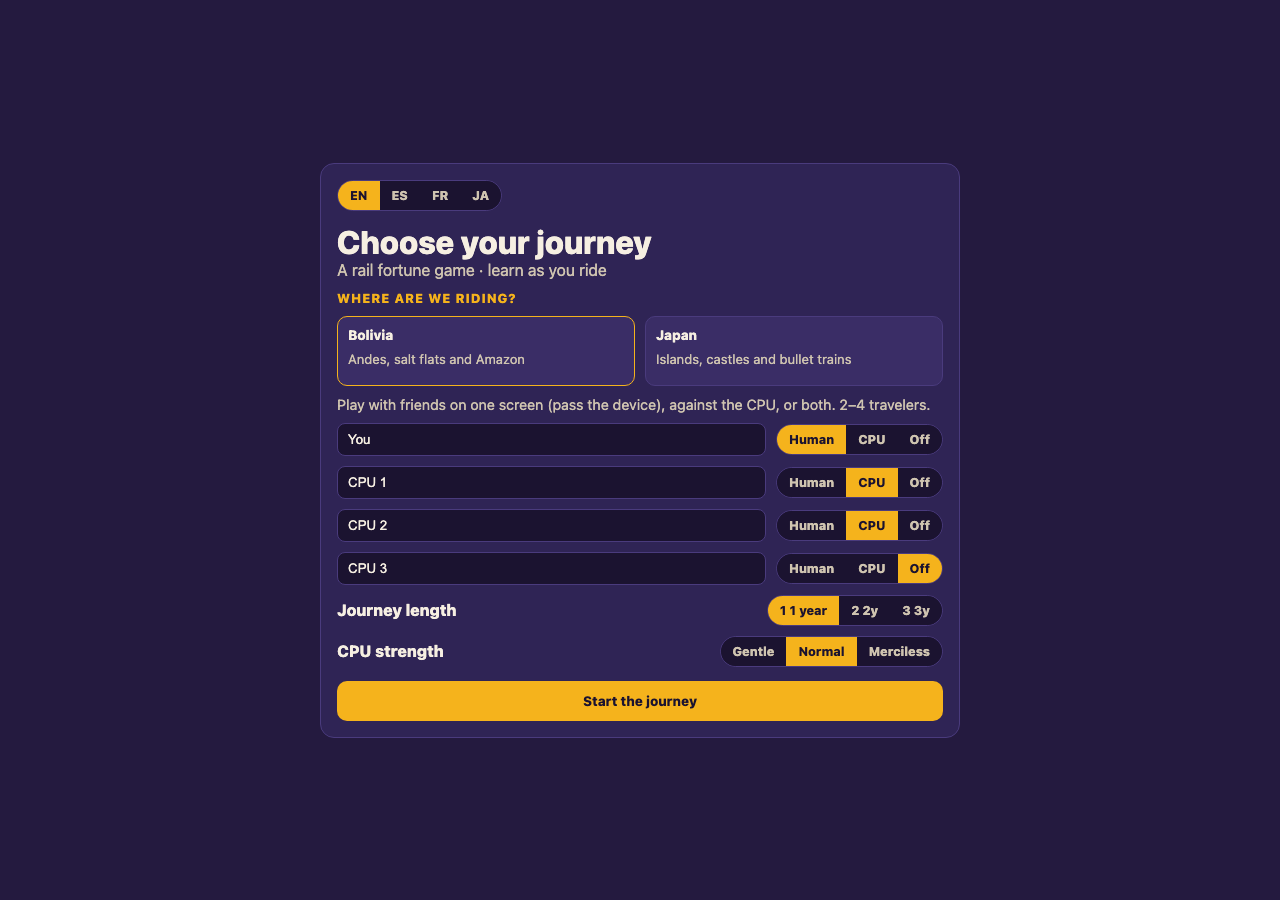
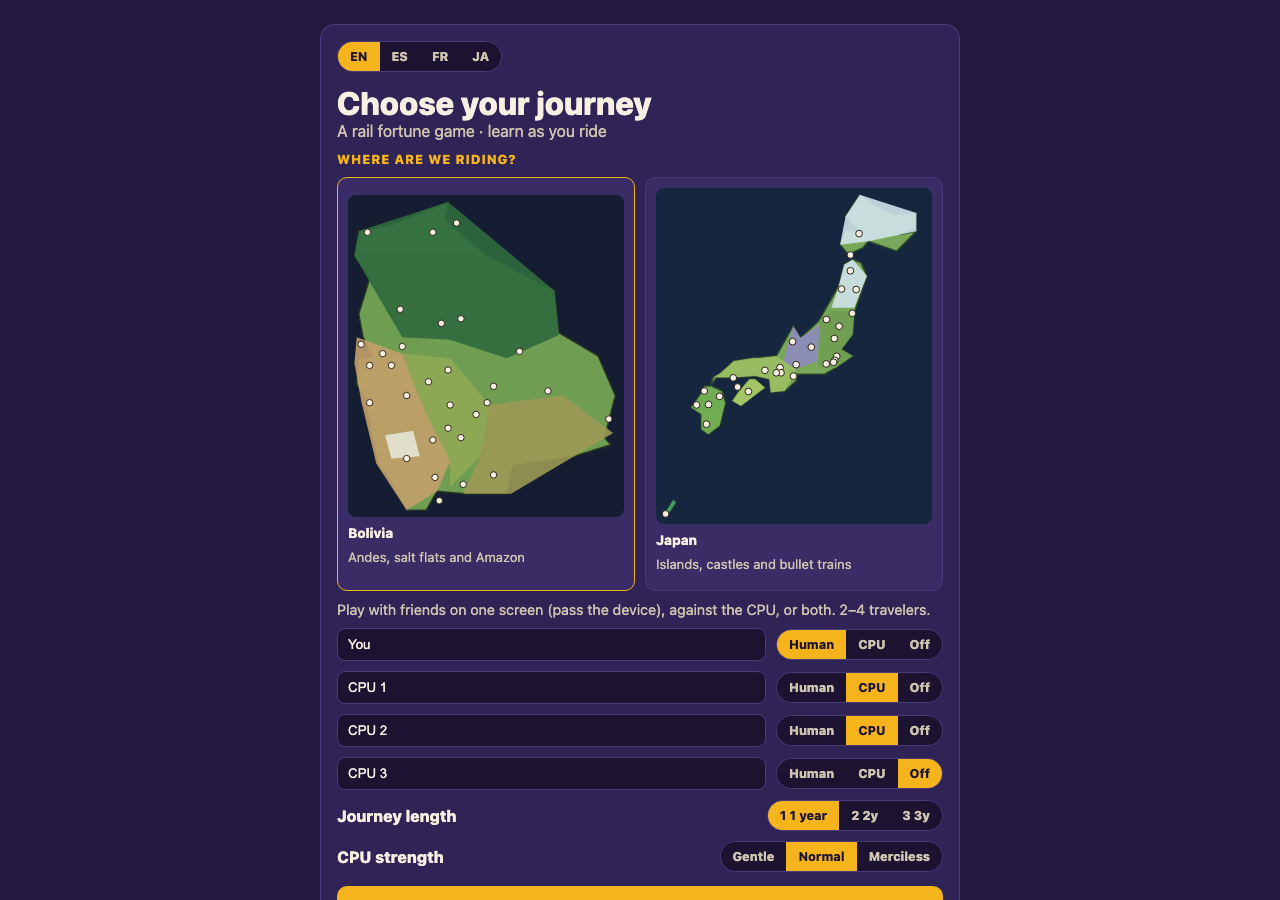
feat(presentation): 盤面の地形と国選択カードの地図を移植
前コミットの都市イラストと同じ手法で、残っていた視覚要素を移植した。

盤面の地形(legacyの drawBoard() 前半):
- terrain-layer.tsx を追加。海+波模様・陸の落ち影・陸・地形・装飾・湖・河川・
  地名ラベルを、legacyと同じ重ね順・色・線幅・オフセットで描く
- スキーマ/ドメイン型(CountryTerrain)/マッパーに sea・seaWave・landBase・coast・
  land・terrain・lakes・rivers・labels・decor を追加
- 装飾(decor)はlegacyでは (el, g, PX, PY) => {...} というDOM生成関数だったが、
  中身は投影と固定の算術だけで決定的なので、「SVG文字列を組み立てるだけの el」を
  渡して評価し静的なSVG断片として抽出した(evaluateDecor)。bg と同様に
  2回呼んで同じ結果になることも検証している

国選択カードの地図(legacyの countryThumb()):
- 抽出時に同じ描画を生成し、軽量インデックスにSVG文字列として保存。
  セットアップ画面は地形データ本体を読み込まずに地図を表示できる
  (country-index.json は約1KB→約9KB)

実際の描画結果はスクリーンショットで目視確認し、docs/90-migration/assets/ の
new-board.png / new-setup.png を更新した(legacyとほぼ同一)。

未実装: 路線(レール)の3層描画と、盤面上の都市ノードのシンボル表示。

typecheck/lint/depcruise/vitest(201件)/playwright(12件)/next build すべて確認済み。

Changed region(s): [[0.25, 0.0311, 0.75, 1.0]]

diff --git a/src/presentation/components/board/terrain-layer.tsx b/src/presentation/components/board/terrain-layer.tsx
@@ -1,0 +1,131 @@
+"use client";
+
+import { useId } from "react";
+import { CountryProjection } from "../../../domain/board/board-projection";
+import { CountryTerrain, GeoPoint } from "../../../domain/country/country-content-pack";
+import { useLocale } from "../../i18n/locale-context";
+
+/**
+ * 盤面の背景となる地形レイヤー(legacyの `drawBoard()` 前半の移植)。
+ * 海 → 波模様 → 陸の影 → 陸 → (陸でクリップした)地形・装飾・湖・河川・地名
+ * という重ね順・色・線幅・オフセットはlegacyと同じ値を使っている。
+ *
+ * 装飾(`decorSvg`)は抽出時にlegacyの `decor()` を評価して得た静的なSVG断片
+ * (`scripts/extract-legacy-content.mjs` 参照)。コンテンツJSON由来でユーザー入力を
+ * 含まないため `dangerouslySetInnerHTML` で挿入している。
+ */
+export function TerrainLayer({
+  terrain,
+  projection,
+}: {
+  terrain: CountryTerrain;
+  projection: CountryProjection;
+}) {
+  const { tx } = useLocale();
+  // 同じページに複数の盤面が現れても衝突しないようIDを一意化する。
+  const rawId = useId();
+  const seaPatternId = `sea-${rawId}`;
+  const landClipId = `landclip-${rawId}`;
+
+  const { boardWidth: bw, boardHeight: bh } = projection;
+  const px = (lon: number) => ((lon - projection.lon0) / (projection.lon1 - projection.lon0)) * bw;
+  const py = (lat: number) => ((lat - projection.lat0) / (projection.lat1 - projection.lat0)) * bh;
+  const toPoints = (polygon: readonly GeoPoint[]) => polygon.map(([lo, la]) => `${px(lo)},${py(la)}`).join(" ");
+
+  return (
+    <>
+      <defs>
+        <pattern id={seaPatternId} width={26} height={26} patternUnits="userSpaceOnUse">
+          <rect width={26} height={26} fill={terrain.seaColor} />
+          <path d="M0,13 q6.5,-5 13,0 t13,0" stroke={terrain.seaWaveColor} strokeWidth={2} fill="none" />
+        </pattern>
+        <clipPath id={landClipId}>
+          {terrain.landPolygons.map((polygon, i) => (
+            <polygon key={i} points={toPoints(polygon)} />
+          ))}
+        </clipPath>
+      </defs>
+
+      <rect x={0} y={0} width={bw} height={bh} fill={terrain.seaColor} />
+      <rect x={0} y={0} width={bw} height={bh} fill={`url(#${seaPatternId})`} />
+
+      {/* 陸の落ち影 */}
+      {terrain.landPolygons.map((polygon, i) => (
+        <polygon key={`shadow-${i}`} points={toPoints(polygon)} fill="#0d1424" opacity={0.5} transform="translate(9,13)" />
+      ))}
+      {terrain.landPolygons.map((polygon, i) => (
+        <polygon
+          key={`land-${i}`}
+          points={toPoints(polygon)}
+          fill={terrain.landColor}
+          stroke={terrain.coastColor}
+          strokeWidth={3}
+          strokeLinejoin="round"
+        />
+      ))}
+
+      <g clipPath={`url(#${landClipId})`}>
+        {terrain.terrainPolygons.map(([color, polygon], i) => (
+          <polygon key={`ter-${i}`} points={toPoints(polygon)} fill={color} />
+        ))}
+        {terrain.decorSvg && <g dangerouslySetInnerHTML={{ __html: terrain.decorSvg }} />}
+        {terrain.lakes.map(([lo, la, rx, ry, rotation, color], i) => (
+          <ellipse
+            key={`lake-${i}`}
+            cx={px(lo)}
+            cy={py(la)}
+            rx={rx}
+            ry={ry}
+            fill={color}
+            transform={`rotate(${rotation} ${px(lo)} ${py(la)})`}
+          />
+        ))}
+        {terrain.rivers.map((river, i) => (
+          <polyline
+            key={`river-${i}`}
+            points={toPoints(river)}
+            fill="none"
+            stroke="#4f9fd0"
+            strokeWidth={5}
+            strokeLinecap="round"
+            strokeLinejoin="round"
+            opacity={0.9}
+          />
+        ))}
+        {/* 陸地の地名(水域のラベルはクリップの外に描く) */}
+        {terrain.labels
+          .filter(([, , , isWater]) => !isWater)
+          .map(([lo, la, text], i) => (
+            <text
+              key={`label-${i}`}
+              x={px(lo)}
+              y={py(la)}
+              textAnchor="middle"
+              fill="#f0ead6"
+              opacity={0.6}
+              fontSize={19}
+              letterSpacing={2}
+            >
+              {tx(text)}
+            </text>
+          ))}
+      </g>
+
+      {terrain.labels
+        .filter(([, , , isWater]) => isWater)
+        .map(([lo, la, text], i) => (
+          <text
+            key={`water-label-${i}`}
+            x={px(lo)}
+            y={py(la)}
+            textAnchor="middle"
+            fill="#e8f4ff"
+            opacity={0.95}
+            fontSize={15}
+          >
+            {tx(text)}
+          </text>
+        ))}
+    </>
+  );
+}

diff --git a/src/domain/country/country-content-pack.ts b/src/domain/country/country-content-pack.ts
@@ -13,6 +13,40 @@ export interface CurrencyFormat {
   readonly multiplier: number;
 }
 
+/** 経度・緯度の座標。 */
+export type GeoPoint = readonly [longitude: number, latitude: number];
+
+/**
+ * 盤面に描く地形(現行コードの `drawBoard` が使う `sea`/`land`/`terrain`/`lakes`/
+ * `rivers`/`labels`/`decor`)。座標はすべて経度・緯度で、描画時に
+ * `CountryProjection` で盤面座標へ投影する。
+ */
+export interface CountryTerrain {
+  readonly seaColor: string;
+  readonly seaWaveColor: string;
+  readonly landColor: string;
+  readonly coastColor: string;
+  readonly landPolygons: readonly (readonly GeoPoint[])[];
+  readonly terrainPolygons: readonly (readonly [color: string, polygon: readonly GeoPoint[]])[];
+  readonly lakes: readonly (readonly [
+    longitude: number,
+    latitude: number,
+    radiusX: number,
+    radiusY: number,
+    rotation: number,
+    color: string,
+  ])[];
+  readonly rivers: readonly (readonly GeoPoint[])[];
+  readonly labels: readonly (readonly [
+    longitude: number,
+    latitude: number,
+    text: LocalizedText,
+    isWater: boolean,
+  ])[];
+  /** 山・木などの装飾(抽出時に評価済みのSVG断片)。 */
+  readonly decorSvg: string;
+}
+
 /** 「厄災の神」のフレーバー(名前・絵文字・各種メッセージテンプレート)。 */
 export interface SpiritFlavor {
   readonly emoji: string;
@@ -55,6 +89,8 @@ export interface CountryContentPack {
   readonly artScenes: Readonly<Record<string, string>>;
   /** 都市イラストのシンボル(SVG断片)。キーは `City.artGlyphKey`。 */
   readonly artGlyphs: Readonly<Record<string, string>>;
+  /** 盤面に描く地形。 */
+  readonly terrain: CountryTerrain;
 }
 
 export function getCityOrThrow(pack: CountryContentPack, id: CityId): City {

diff --git a/src/infrastructure/content/raw-content-schema.ts b/src/infrastructure/content/raw-content-schema.ts
@@ -108,6 +108,26 @@ export const RawCountryContentSchema = z.object({
   marks: z.record(z.string(), z.string()),
   /** 都市イラストの背景シーン(SVG断片)。キーは各都市の `bg`。 */
   bg: z.record(z.string(), z.string()),
+
+  // --- 盤面の地形(legacyの `drawBoard` が描く背景レイヤー) ---
+  /** 海の塗り色と波模様の線の色。 */
+  sea: z.string(),
+  seaWave: z.string(),
+  /** 陸地の塗り色と海岸線の色。 */
+  landBase: z.string(),
+  coast: z.string(),
+  /** 陸地の輪郭(経度・緯度の多角形)。 */
+  land: z.array(z.array(z.tuple([z.number(), z.number()]))),
+  /** 地形(色と多角形の組)。陸地でクリップして描く。 */
+  terrain: z.array(z.tuple([z.string(), z.array(z.tuple([z.number(), z.number()]))])),
+  /** 湖(経度・緯度・半径x・半径y・回転・色)。 */
+  lakes: z.array(z.tuple([z.number(), z.number(), z.number(), z.number(), z.number(), z.string()])),
+  /** 河川(経度・緯度の折れ線)。 */
+  rivers: z.array(z.array(z.tuple([z.number(), z.number()]))),
+  /** 地名ラベル(経度・緯度・文言・水域かどうか)。 */
+  labels: z.array(z.tuple([z.number(), z.number(), LocalizedTextSchema, z.number()])),
+  /** 盤面の装飾(山・木など)。抽出時に評価済みのSVG断片。 */
+  decor: z.string(),
 });
 
 export type RawCountryContent = z.infer<typeof RawCountryContentSchema>;

diff --git a/src/infrastructure/content/country-index.ts b/src/infrastructure/content/country-index.ts
@@ -3,15 +3,21 @@ import countryIndexRaw from "./country-index.json";
 import { LocalizedTextSchema } from "./raw-content-schema";
 
 /**
- * セットアップ画面の国選択カード用の軽量インデックス(約1KB)。
- * フルコンテンツ(各国約185KB)を読み込まずに一覧表示するための最適化
+ * セットアップ画面の国選択カード用の軽量インデックス(約9KB)。
+ * フルコンテンツ(各国約215KB)を読み込まずに一覧表示するための最適化
  * (docs/90-migration/03-as-built-status.md のバンドルサイズに関する既知課題への対応)。
+ *
+ * 地図サムネイル(`thumbSvg`)は legacy の `countryThumb()` と同じ描画結果を
+ * 抽出時に生成した静的なSVG断片。地形データ(land/terrain)自体を読み込まずに
+ * 描画できるよう、文字列としてこのインデックスに含めている。
  */
 const CountryIndexSchema = z.array(
   z.object({
     id: z.string(),
     name: LocalizedTextSchema,
     blurb: LocalizedTextSchema,
+    thumbViewBox: z.string(),
+    thumbSvg: z.string(),
   }),
 );
 

diff --git a/src/presentation/components/board/board-view.tsx b/src/presentation/components/board/board-view.tsx
@@ -8,6 +8,7 @@ import { GameEngineContext } from "../../../application/game-engine-context";
 import { useBoardLayout } from "../../hooks/use-board-layout";
 import { useCamera } from "../../hooks/use-camera";
 import { useLocale } from "../../i18n/locale-context";
+import { TerrainLayer } from "./terrain-layer";
 
 const PLAYER_COLORS = ["#e8447a", "#f5b31c", "#37b3a4", "#7bc86c"];
 const NODE_COLORS: Record<string, string> = {
@@ -76,6 +77,7 @@ export function BoardView({ context, session, reachable, onChooseNode }: BoardVi
   return (
     <div style={{ position: "relative" }}>
       <svg viewBox={viewBox} className="board-svg" role="img" aria-label="Game board">
+        <TerrainLayer terrain={context.content.terrain} projection={context.content.projection} />
         <g className="edges">
           {edges.map((line, i) => (
             <line key={i} x1={line.x1} y1={line.y1} x2={line.x2} y2={line.y2} stroke="#4a3b7d" strokeWidth={3} />

diff --git a/src/presentation/components/setup/setup-screen.tsx b/src/presentation/components/setup/setup-screen.tsx
@@ -72,6 +72,12 @@ export function SetupScreen() {
               className={`ccard${country === entry.id ? " on" : ""}`}
               onClick={() => setCountry(CountryId(entry.id))}
             >
+              <svg
+                className="country-thumb"
+                viewBox={entry.thumbViewBox}
+                role="presentation"
+                dangerouslySetInnerHTML={{ __html: entry.thumbSvg }}
+              />
               <div className="cap">
                 <div className="nm">{tx(entry.name)}</div>
                 <div className="sub">{tx(entry.blurb)}</div>

diff --git a/src/infrastructure/content/country-content-mapper.ts b/src/infrastructure/content/country-content-mapper.ts
@@ -130,5 +130,17 @@ export function mapRawContentToCountryPack(raw: RawCountryContent): CountryConte
     stripeColors: raw.stripe,
     artScenes: raw.bg,
     artGlyphs: raw.marks,
+    terrain: {
+      seaColor: raw.sea,
+      seaWaveColor: raw.seaWave,
+      landColor: raw.landBase,
+      coastColor: raw.coast,
+      landPolygons: raw.land,
+      terrainPolygons: raw.terrain,
+      lakes: raw.lakes,
+      rivers: raw.rivers,
+      labels: raw.labels.map(([lo, la, text, water]) => [lo, la, text, water !== 0] as const),
+      decorSvg: raw.decor,
+    },
   };
 }

diff --git a/src/app/globals.css b/src/app/globals.css
@@ -108,6 +108,14 @@ h3 {
   border-color: var(--gold);
 }
 
+.country-thumb {
+  display: block;
+  width: 100%;
+  height: auto;
+  border-radius: 8px;
+  margin-bottom: 8px;
+}
+
 .ccard .nm {
   font-weight: 800;
 }

diff --git a/docs/90-migration/03-as-built-status.md b/docs/90-migration/03-as-built-status.md
@@ -13,9 +13,9 @@ WBS([02-wbs.md](./02-wbs.md))の各フェーズに対する実際の実施結果
 | Phase 3: コンテンツ/i18nデータ移行 | ✅ 完了(一部簡略化あり) | `scripts/extract-legacy-content.mjs` による自動抽出。ADR-0006/0007に実装時の簡略化を追記済み |
 | Phase 4: Application層 | ✅ 完了 | 全14ユースケース実装・テスト済み(start-game, roll-dice, move-player, property-transactions, answer-quiz, visit-stall, use-item, resolve-misfortune-strike, advance-turn, cpu-take-turn, land-on-square(3種), save-load-game, end-game) |
 | Phase 5: Infrastructure層 | ✅ 完了 | localStorage永続化・共有コード・本番乱数・音楽エンジン(Phase8で完成)すべて完了 |
-| Phase 6: Presentation層 | ✅ 完了(一部演出は簡略化) | セットアップ〜プレイ〜ゲーム終了まで実際に動作。盤面はSVGで、盤面そのものは抽象的なノード/エッジ表示だが、都市の手描きイラストはモーダル・目的地カードに移植済み。カメラ追尾・音楽・3Dダイス演出も実装済み |
+| Phase 6: Presentation層 | ✅ 完了(一部演出は簡略化) | セットアップ〜プレイ〜ゲーム終了まで実際に動作。盤面はSVGで、地形(海/陸/山/湖/河川/地名)・都市の手描きイラストとも移植済み。カメラ追尾・音楽・3Dダイス演出も実装済み |
 | Phase 7: テスト強化 | ✅ 完了 | ユニット/コンポーネントテスト201件、E2E(Playwright)12件(起動〜プレイ、多言語、セーブ/ロード、アクセシビリティ2種、モバイル幅、月替わりイベント、実乱数での連続プレイ稼働テスト)。カバレッジはDomain/Applicationともに目標達成。稼働テストで実バグ(駒がクリックを妨げる問題)を発見・修正済み |
-| Phase 8: 演出/音声/パフォーマンス仕上げ | ✅ 大部分完了 | バンドルサイズ改善(国コンテンツの動的import化、最大チャンク約620KB→約366KB)、駒移動のCSSトランジション、盤面カメラのパン/ズーム追尾、**legacyの`Snd`エンジン(拍単位の音楽スケジューラ・全SFX)をフル移植**、**legacyの3Dダイス物理演出(バウンド・回転の計算式)をフル移植**、**出発ストーリー・月替わりイベント(季節)・次の区間の案内の各モーダルを実装**、**都市の手描きイラスト(`cityArt`)をSVGデータとして抽出・移植**。**残るのは**手描きイラストの追加可否と現行版との厳密なピクセル単位のビジュアル突合QA(一次資料として[05-visual-comparison.md](./05-visual-comparison.md)を作成済み。最終判断は人が実際に見て反復調整する領域) |
+| Phase 8: 演出/音声/パフォーマンス仕上げ | ✅ 大部分完了 | バンドルサイズ改善(国コンテンツの動的import化、最大チャンク約620KB→約366KB)、駒移動のCSSトランジション、盤面カメラのパン/ズーム追尾、**legacyの`Snd`エンジン(拍単位の音楽スケジューラ・全SFX)をフル移植**、**legacyの3Dダイス物理演出(バウンド・回転の計算式)をフル移植**、**出発ストーリー・月替わりイベント(季節)・次の区間の案内の各モーダルを実装**、**都市の手描きイラスト(`cityArt`)・盤面の地形(`drawBoard`)・国選択カードの地図(`countryThumb`)をSVGデータとして抽出・移植**。**残るのは**手描きイラストの追加可否と現行版との厳密なピクセル単位のビジュアル突合QA(一次資料として[05-visual-comparison.md](./05-visual-comparison.md)を作成済み。最終判断は人が実際に見て反復調整する領域) |
 | Phase 9: 移行カットオーバー | 🔶 大部分完了(最後の1操作のみオーナー待ち) | 9.2最終受け入れ確認は下記チェックリストの通り実施。9.3(旧版のアーカイブ)は完了。GitHubリポジトリ作成・push済み(https://github.com/t29mato/grand-express)。**Vercelへの実デプロイのみ**、ブラウザでの対話認証が必要なため未完了(手順は [04-deployment-guide.md](./04-deployment-guide.md) の「次の一歩」参照。2分程度で完了する想定) |
 | Phase 10: 移行後クリーンアップ | ✅ 完了 | 本ドキュメント・README更新・ADR追記・小さな不要コード削除に加え、`game-store.ts`(453行)をファイルサイズ指針に収まるよう5ファイルへ分割済み(下記参照) |
 
@@ -25,7 +25,7 @@ WBS([02-wbs.md](./02-wbs.md))の各フェーズに対する実際の実施結果
 
 | # | 完了の定義 | 状況 |
 |---|---|---|
-| 1 | 現行の全機能(2ヶ国・4言語・全アイテム/クイズ/季節イベント/厄災効果)が新アプリで再現できている | 🔶 **機能・音・ダイス演出はほぼ達成**: 2ヶ国の実データ(都市30・アイテム9・クイズ・季節12・厄災7)、4言語、全ゲームメカニクス(移動・売買・クイズ・アイテム効果・厄災・CPU)、legacyの音楽エンジン・3Dダイス物理演出をフル移植済み。**視覚面もほぼ達成**(都市の手描きイラストも移植済み。未実装は盤面に地形イラストを敷く表現と国選択カードの地図のみ。ダイスの「タップして止める」インタラクションは省略し固定尺のアニメーションで代替) |
+| 1 | 現行の全機能(2ヶ国・4言語・全アイテム/クイズ/季節イベント/厄災効果)が新アプリで再現できている | 🔶 **機能・音・ダイス演出はほぼ達成**: 2ヶ国の実データ(都市30・アイテム9・クイズ・季節12・厄災7)、4言語、全ゲームメカニクス(移動・売買・クイズ・アイテム効果・厄災・CPU)、legacyの音楽エンジン・3Dダイス物理演出をフル移植済み。**視覚面もほぼ達成**(都市の手描きイラスト・盤面の地形・国選択カードの地図をすべて移植済み。未実装は路線の3層描画と盤面上の都市シンボルのみ。ダイスの「タップして止める」インタラクションは省略し固定尺のアニメーションで代替) |
 | 2 | Domain/Application層のユニットテストがカバレッジ目標を満たしている | ✅ 達成(Domain/Application共に目標超過、全体91%超) |
 | 3 | E2Eのクリティカルユーザージャーニーがすべてグリーン | 🔶 **12件のE2Eは全てグリーン**。ただしテスト戦略で列挙した8シナリオのうち、物件購入/クイズ正誤/独占達成/厄災発動/ゲーム終了の詳細シナリオは、真のE2E(Playwrightでの決定的な再現)ではなく**実データを使ったユニット/統合テスト**でカバーしている(理由: 本番の乱数注入はセキュリティ/保守性上のリスクがあるため導入を見送った。詳細はテストファイルのコメント参照)。実際の乱数を使った「稼働テスト」でこれらのマス種別を実際に踏むことは確認済み |
 | 4 | `legacy/grand-express.html` を参照しなくても新規機能追加ができる状態 | ✅ 達成(本ドキュメント一式・ADR・テストが仕様として機能する) |
@@ -59,6 +59,17 @@ WBS([02-wbs.md](./02-wbs.md))の各フェーズに対する実際の実施結果
 
 ## 既知のフォローアップ項目
 
+- ~~盤面の地形イラストと国選択カードの地図が未実装~~ → **対応済み(2026-08-05)**。
+  `terrain-layer.tsx` が海+波模様・陸の落ち影・陸・地形・装飾・湖・河川・地名ラベルを
+  legacyの `drawBoard()` と同じ重ね順・色・線幅で描く。盤面の装飾(`decor`)は
+  legacyでは `(el, g, PX, PY) => {...}` というDOM生成関数だったが、中身は決定的なので
+  「SVG文字列を組み立てるだけの `el`」を渡して評価し、静的なSVG断片として抽出した
+  (`evaluateDecor()`。`bg` と同様に決定性も検証している)。
+  国選択カードの地図は legacy の `countryThumb()` と同じ描画を抽出時に生成し、
+  軽量インデックスにSVG文字列として持たせた(地形データ本体を読み込まずに描画できる。
+  インデックスは約1KB→約9KB)。実際の描画結果はスクリーンショットで目視確認済み
+  (`assets/new-board.png` / `assets/new-setup.png`)。
+  **未実装**: 路線(レール)の3層描画と盤面上の都市ノードのシンボル表示。
 - ~~都市の手描きイラストが未実装(「原作にどこまで似せるか」の意思決定待ち)~~ →
   **対応済み(2026-08-05)**。legacy側の `G.bg[...]` が**引数なし・乱数なしの純粋関数**
   (`band`/`dotc`/`clouds`/`treeRow` もすべて決定的)であることを確認したため、

diff --git a/docs/90-migration/05-visual-comparison.md b/docs/90-migration/05-visual-comparison.md
@@ -49,12 +49,15 @@ Playwright(`playwright` はdevDependencyとして導入済み)でlegacyのファ
 
 ## 3. 未着手・今後人が判断すべき項目
 
-- **盤面の地形イラスト**(都市ごとの手描きの地形を盤面そのものに敷く表現)は未実装。
-  盤面は引き続き円形ノード+直線エッジの抽象表示(ADR-0007に記録済み)。
-  都市カード/モーダル側のイラストは移植済みなので、残るのは盤面のみ。
-- 国選択カードのポリゴン地図(legacyの `countryThumb()`)は未実装。
-  こちらも同様に決定的な関数なので、必要になれば同じ手法(抽出して静的データ化)で移植できる。
+- ~~盤面の地形イラスト~~ → **対応済み(2026-08-05)**。`terrain-layer.tsx` として、
+  海+波模様・陸の落ち影・陸・地形・装飾(山/木/サボテン)・湖・河川・地名ラベルを
+  legacyの `drawBoard()` と同じ重ね順・色・線幅で描くようにした。
+- ~~国選択カードのポリゴン地図~~ → **対応済み(2026-08-05)**。legacyの `countryThumb()` と
+  同じ描画を抽出時に生成し、軽量インデックス(`country-index.json`)にSVG文字列として
+  持たせた(地形データ本体を読み込まずに描画できる。インデックスは約1KB→約9KB)。
 - ヘッダーの装飾(虹色の帯、ロゴのサブタイトル)を追加するかどうか。
+- 路線(レール)の3層描画(枕木のダッシュ表現)と、盤面上の都市ノードのシンボル表示は未実装
+  (現状は単色の円+ラベル)。これらも同じくlegacyの `drawBoard()` に定義がある。
 
 ## 4. 都市イラストの移植(2026-08-05 対応済み)
 
@@ -79,3 +82,5 @@ Playwright(`playwright` はdevDependencyとして導入済み)でlegacyのファ
 - 2026-08-05: 初版作成(Phase 8の音楽エンジン・3Dダイス演出の実装後、残る視覚差分を
   可視化する目的でスクリーンショット比較を実施)。
 - 2026-08-05: 都市イラストの移植を完了し、「3」「4」を更新。
+- 2026-08-05: 盤面の地形レイヤーと国選択カードの地図も移植し、「3」を更新。
+  最新の描画結果は `assets/new-board.png` / `assets/new-setup.png` を参照。

diff --git a/docs/README.md b/docs/README.md
@@ -27,4 +27,4 @@
 
 - **元の課題**: 1ファイルにゲームロジック・DOM操作・描画・音声・翻訳文字列・保存処理・コンテンツデータ(都市/クイズ/アイテム)が全部同居しており、保守性が低く、LLMに1タスク依頼するたびにファイル全体(385KB)をコンテキストに読ませる必要があり、トークン消費が非常に大きかった。
 - **狙い**: ドメインロジックを純粋なTypeScriptの Domain 層に切り出し、責務ごとに小さなファイル(目安200〜300行)に分割することで、①保守性を上げる ②テストを書けるようにする ③LLMに変更を依頼するときに読み込む範囲を最小化してトークン消費を大きく削減する。
-- **現状**: Domain/Application/Infrastructure/Presentationの全層を実装し、実際にプレイできる状態まで完了(ユニット/コンポーネントテスト201件・E2Eテスト12件がグリーン)。バンドルサイズ改善、音楽エンジン・3Dダイス演出・出発ストーリー/月替わりイベント/次の区間の案内のモーダルの移植など仕上げも完了。残るのは本番デプロイ(ブラウザ認証を要するオーナー判断待ち)と、手描きイラスト等どこまで似せるか人の判断が必要なビジュアル仕上げのみ。詳細は [as-built](./90-migration/03-as-built-status.md) を参照。
+- **現状**: Domain/Application/Infrastructure/Presentationの全層を実装し、実際にプレイできる状態まで完了(ユニット/コンポーネントテスト201件・E2Eテスト12件がグリーン)。バンドルサイズ改善、音楽エンジン・3Dダイス演出・各種モーダル(出発ストーリー/月替わりイベント/次の区間の案内)・都市イラスト/盤面の地形/国地図の移植など仕上げも完了。残るのは本番デプロイ(ブラウザ認証を要するオーナー操作待ち)と、細部のビジュアル仕上げ(路線の3層描画・盤面上の都市シンボル)のみ。詳細は [as-built](./90-migration/03-as-built-status.md) を参照。
